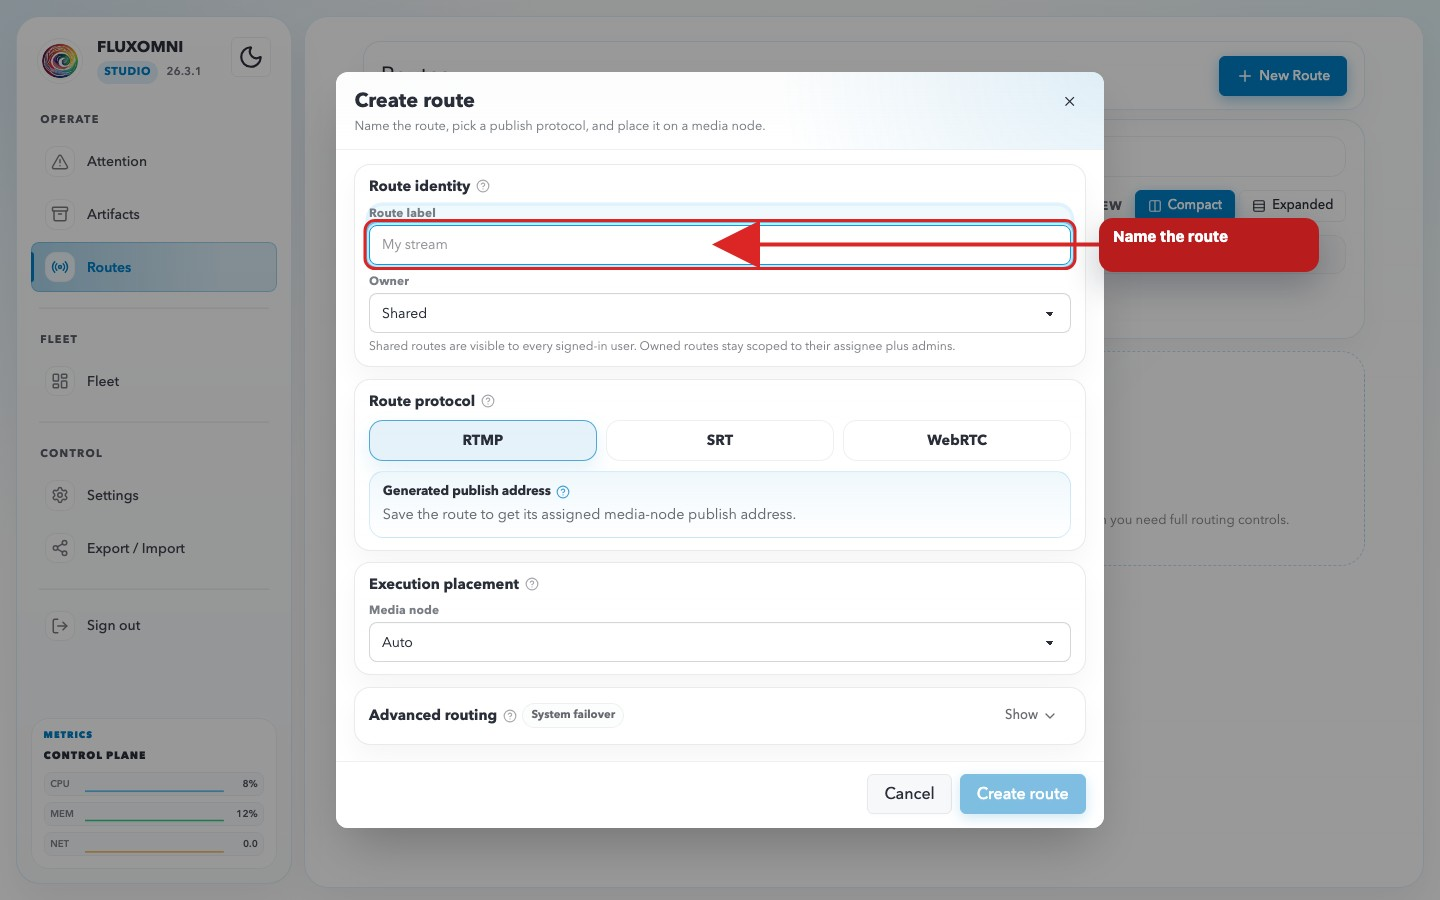
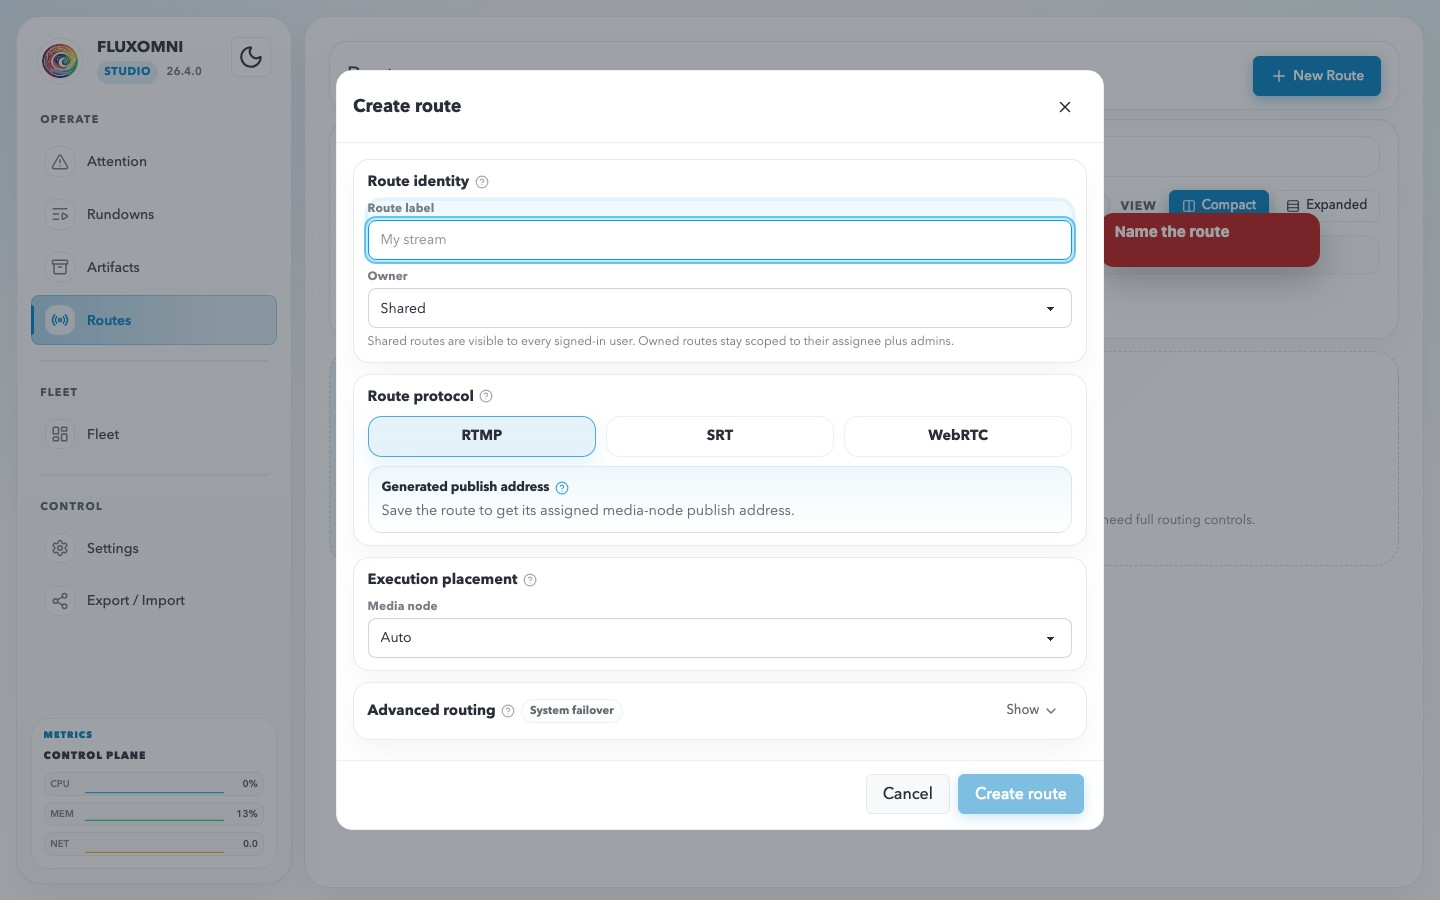
docs: recapture the route flow stills on Studio 26.4.0
The step images still showed Studio 26.3.1 and arrow callouts. They now match the current lab and use a box label only.

diff --git a/screenshots/captures/guided-flows.spec.ts b/screenshots/captures/guided-flows.spec.ts
@@ -171,7 +171,7 @@ async function addCallout(
               <path d="M 0 0 L 12 6 L 0 12 z" fill="#dc2626"></path>
             </marker>
           </defs>
-          <line x1="${startX}" y1="${startY}" x2="${targetX}" y2="${targetY}" stroke="#dc2626" stroke-width="4" marker-end="url(#docs-callout-arrow)" />
+          
           <rect x="${box.x - 4}" y="${box.y - 4}" width="${box.width + 8}" height="${box.height + 8}" rx="10" fill="none" stroke="#dc2626" stroke-width="3" />
         </svg>
         <div style="
@@ -387,7 +387,7 @@ test.describe('Create Route flow', () => {
     await newRouteButton.click();
 
     await page.waitForSelector(
-      '[role="dialog"], .modal, [data-testid="create-route-modal"]',
+      'dialog[open], [role="dialog"], .modal, [data-testid="create-route-modal"]',
       { timeout: 10_000 },
     );
     await page.waitForTimeout(800);
@@ -408,7 +408,7 @@ test.describe('Create Route flow', () => {
 
     // Step 3: Fill in route identity
     await fillCreateRouteDialog(page);
-    const dialog = page.locator('.modal-open, [role="dialog"]').first();
+    const dialog = page.locator('dialog[open], .modal-open, [role="dialog"]').first();
     const submitButton = getCreateRouteSubmit(dialog);
     await captureWithCallout(
       page,
@@ -538,7 +538,7 @@ test.describe('Guided videos', () => {
     await smoothFill(page, labelInput, `Main Broadcast ${SEED_PREFIX}`);
 
     await page.waitForTimeout(800);
-    const dialog = page.locator('.modal-open, [role="dialog"]').first();
+    const dialog = page.locator('dialog[open], .modal-open, [role="dialog"]').first();
     const submitButton = getCreateRouteSubmit(dialog);
     await holdCallout(page, submitButton, 'Save route', 'left');
     await smoothClick(page, submitButton);
